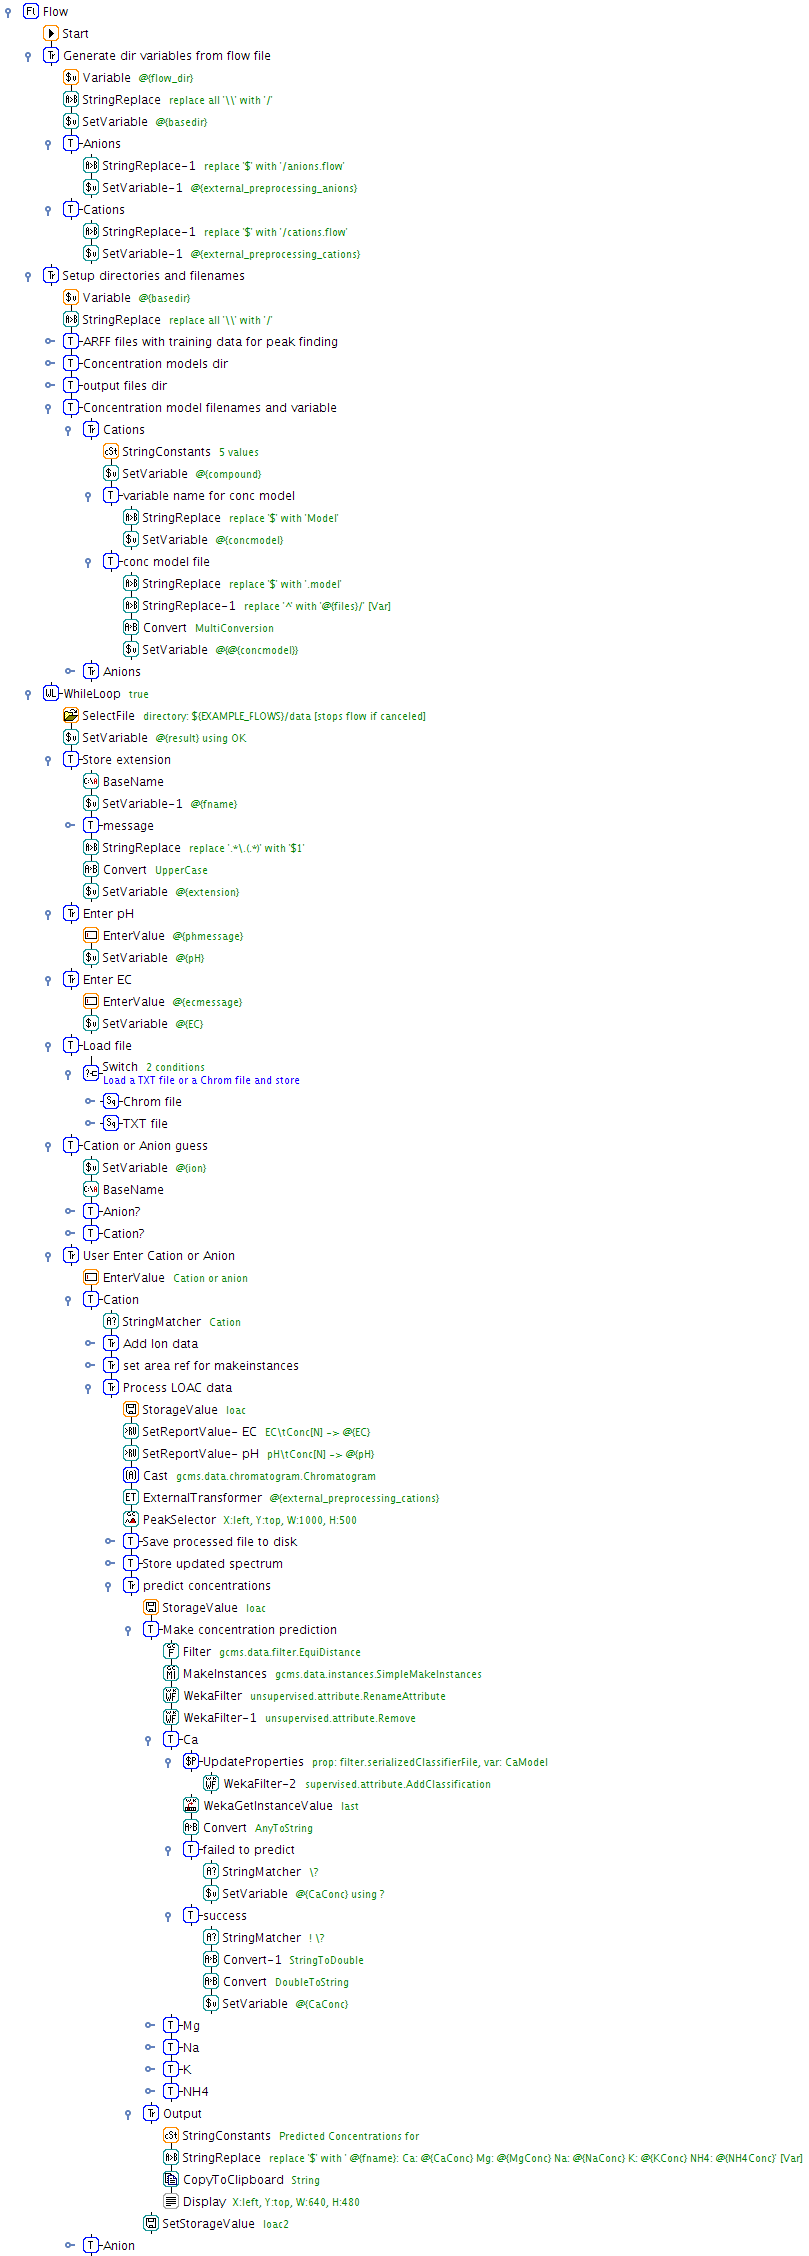
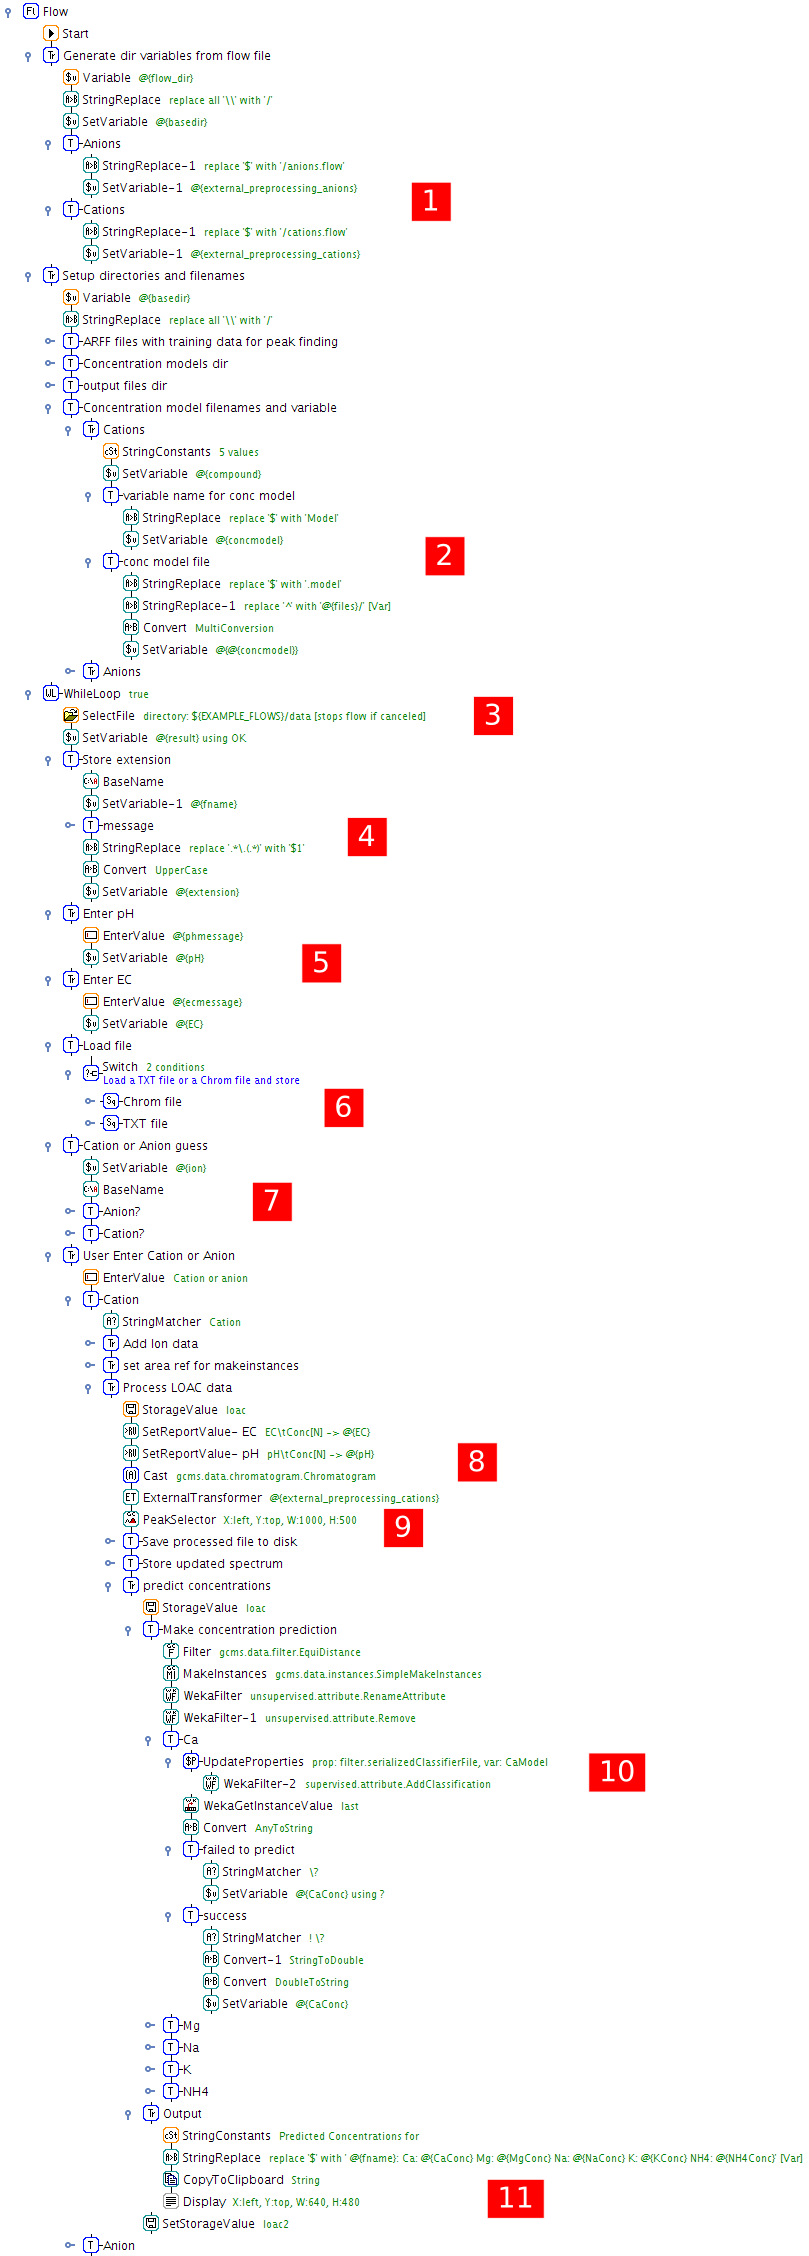
annotated flow

diff --git a/examples_advanced.html b/examples_advanced.html
@@ -207,7 +207,7 @@
             </div>
             <div class="row">
                 <div class="span3">
-                    <p>Using GC-MS extension modules, this flow processes spectral generating predictions for ions (anions/cations). The user can correct the guessed peaks interactively, before the concentrations are calculated.</p>
+                    <p>Using GC-MS extension modules, this flow processes spectral data generating predictions for ions (anions/cations). The user can correct the guessed peaks interactively, before the concentrations are calculated.</p>
                     <span class="label">Regression</span>
                     <span class="label">Interactive</span>
                     <span class="label">WEKA</span>
@@ -230,16 +230,17 @@
                                         <div class="span7"><img src="img/loac.png" alt="Lab-on-a-chip"/></div>
                                         <div class="span3">
                                             <table class="table table-condensed">
-                                                <tr><td><span class="badge">1</span></td><td> Retrieve classification available classification labels</td></tr>
-                                                <tr><td><span class="badge">2</span></td><td> List all chromatogram files</td></tr>
-                                                <tr><td><span class="badge">3</span></td><td> Load and pre-process chromatograms one-by-one</td></tr>
-                                                <tr><td><span class="badge">4</span></td><td> Show Total-ion-count and take a screenshot for report</td></tr>
-                                                <tr><td><span class="badge">5</span></td><td> The same with the Baseline-ion-count</td></tr>
-                                                <tr><td><span class="badge">6</span></td><td> Turn chromatogram into WEKA instance and predict the class label</td></tr>
-                                                <tr><td><span class="badge">7</span></td><td> Determine the fruit/vegetable picture associated with the label</td></tr>
-                                                <tr><td><span class="badge">8</span></td><td> Create a spreadsheet from the class distribution (top 5)</td></tr>
-                                                <tr><td><span class="badge">9</span></td><td> Generate various output for the PDF report</td></tr>
-                                                <tr><td><span class="badge">10</span></td><td> Generate PDF report</td></tr>
+                                                <tr><td><span class="badge">1</span></td><td> Set up external flows, relative to current one</td></tr>
+                                                <tr><td><span class="badge">2</span></td><td> Set up variables for serialized regression model files</td></tr>
+                                                <tr><td><span class="badge">3</span></td><td> Prompt user to select spectra</td></tr>
+                                                <tr><td><span class="badge">4</span></td><td> Determine extension of currently processed spectrum</td></tr>
+                                                <tr><td><span class="badge">5</span></td><td> Prompt user to enter pH and EC</td></tr>
+                                                <tr><td><span class="badge">6</span></td><td> Load file, executing subflow depending on file extensions</td></tr>
+                                                <tr><td><span class="badge">7</span></td><td> Guess type of ion based on filename and prompt with pre-selected choice (Anion or Cation)</td></tr>
+                                                <tr><td><span class="badge">8</span></td><td> Process spectrum, guessing peaks using external flow (either Cation or Anion one)</td></tr>
+                                                <tr><td><span class="badge">9</span></td><td> Prompt user to inspect selected peaks, allow user to correct them</td></tr>
+                                                <tr><td><span class="badge">10</span></td><td> Turn spectrum into WEKA data structure and make prediction on peak area for all ions</td></tr>
+                                                <tr><td><span class="badge">11</span></td><td> Assemble predictions, display them and copy them to the clipboard as well before proceeding with the next data file</td></tr>
                                             </table>
                                         </div>
                                     </div>
